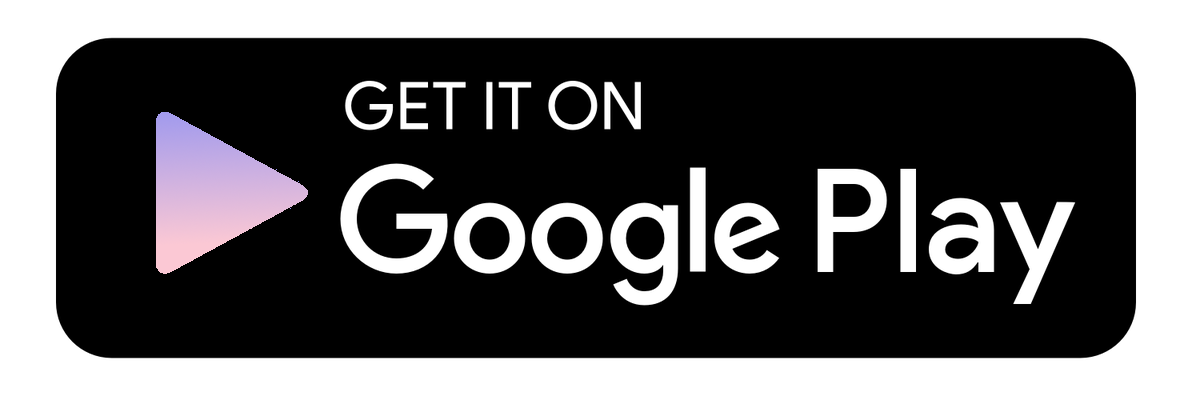
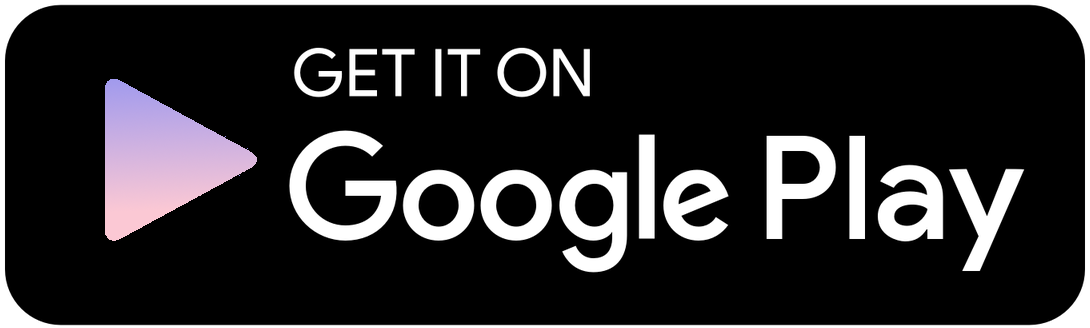
more progress on projects

diff --git a/index.html b/index.html
@@ -479,7 +479,7 @@
           <div class="col-6 col-lg-4 p-2">
             <a
               class="project-bubble popup-with-move-anim"
-              href="#this-website-lightbox"
+              href="#jack-benak-fund-lightbox"
             >
                 <img
                   class="project-picture"
@@ -487,7 +487,7 @@
                 />
               <div class="project-title">Jack Benak Fund</div>
               <div class="project-info-brief">
-                A tribute and memorial website to my best friend.
+                A tribute and memorial website for my best friend.
               </div>
             </a>
           </div>
@@ -535,22 +535,24 @@
           <h3>This Website</h3>
           <hr class="line-heading" />
           <h6>A personal portfolio</h6>
-          <p>I made this website using a few fun libraries and stylesheets:</p>
+          <p>I made this website using a few fun libraries, stylesheets, and tools</p>
           <ul class="lightbox-list">
             <li>GSAP-- ScrollTrigger, Timeline</li>
             <li>jQuery</li>
             <li>Bootstrap</li>
             <li>Magnific Popup</li>
+            <li>Photoshop</li>
+            <li>GIMP</li>
           </ul>
 
           <p>Feel free to use any code you find here! I drew inspiration from lots of online resources like codepen and stack overflow.</p>
 
             <a
-            class="col-sm-5 github-button-link d-flex justify-content-start"
+            class="col-10 col-sm-4 lighthouse-button-link d-flex justify-content-start"
             href="https://github.com/ahern55/ahern55.github.io"
             target="_blank">
               <img
-                class="github-button"
+                class="lighthouse-button"
                 src="resources/view-on-github.png"
                 alt="view on github"
               />
@@ -577,12 +579,36 @@
             src="resources/your-recipes-logo.png"
           />
 
+          <div class="app-store-buttons row justify-content-center">
+            <a
+            class="col-6 lighthouse-button-link d-flex justify-content-center p-1"
+            href="https://github.com/ahern55/recipes"
+            target="_blank">
+              <img
+                class="lighthouse-button"
+                src="resources/appleAppStore.png"
+                alt="Download on App Store"
+              />
+            </a>
+  
+            <a
+            class="col-6 lighthouse-button-link d-flex justify-content-center p-1"
+            href="https://github.com/ahern55/recipes"
+            target="_blank">
+              <img
+                class="lighthouse-button"
+                src="resources/androidAppStore.png"
+                alt="Get on Google Play"
+              />
+            </a>
+        </div>
+
         </div>
         <!-- end of col -->
         <div class="col-sm-8">
           <h3>Your Recipes</h3>
           <hr class="line-heading" />
-          <h6>A Mobile App</h6>
+          <h6>A Recipe Management Mobile App</h6>
           <p>I created this app as a minimum viable product of sorts. </p>
             
           <p>I used .NET with Xamarin.Forms to build the native apps for iOS and Android with one tooling.</p>
@@ -592,16 +618,17 @@
             I'd like to host some central database server. I'd probably write the API in node.js
           </p>
 
-            <a
-            class="col-sm-5 github-button-link d-flex justify-content-start"
+          <a
+            class="col-10 col-sm-4 lighthouse-button-link d-flex"
             href="https://github.com/ahern55/recipes"
             target="_blank">
               <img
-                class="github-button"
-                src="resources/view-on-github.png"
-                alt="view on github"
-              />
-            </a>
+              class="lighthouse-button"
+              src="resources/view-on-github.png"
+              alt="view on github"
+            />
+          </a>
+
           </div>
         </div>
       </div>
@@ -639,15 +666,62 @@
           </ul>
 
             <a
-            class="col-sm-5 github-button-link d-flex justify-content-start"
+            class="col-10 col-sm-4 lighthouse-button-link d-flex justify-content-start"
             href="https://github.com/ahern55/econ_data_project"
             target="_blank">
               <img
-                class="github-button"
+                class="lighthouse-button"
                 src="resources/view-on-github.png"
                 alt="view on github"
               />
             </a>
+          </div>
+        </div>
+      </div>
+    </div>
+
+    <!-- ******************************************************************* -->
+    <!-- *****************************Jack********************************** -->
+    <!-- ******************************************************************* -->
+    <div
+      id="jack-benak-fund-lightbox"
+      class="project-lightbox zoom-anim-dialog mfp-hide"
+    >
+      <div class="row">
+        <button title="Close (Esc)" type="button" class="mfp-close x-button">
+          ×
+        </button>
+        <div class="col-sm-4">
+          <img
+            class="project-lighthouse-picture"
+            src="resources/jack-benak-fund.jpg"
+          />
+
+        </div>
+        <!-- end of col -->
+        <div class="col-sm-8">
+          <h3>Jack Benak Fund</h3>
+          <hr class="line-heading" />
+          <h6><a class="colored-link" target="_blank" href="https://jackbenakfund.org">jackbenakfund.org</a></h6>
+          
+          <p>A tribute website.</p>
+
+          <p>Didn't really want to put this on here, but it did introduce me to web design.</p>
+          
+          <p>I used a template from Inovatik.</p>
+          
+          <p>If you're reading this, head over to the website and learn a bit about Jack!</p>
+          
+          <a
+            class="col-10 col-sm-4 lighthouse-button-link d-flex justify-content-start"
+            href="https://github.com/ahern55/jackbenakfund"
+            target="_blank">
+            <img
+              class="lighthouse-button"
+              src="resources/view-on-github.png"
+              alt="view on github"
+            />
+          </a>
           </div>
         </div>
       </div>

diff --git a/css/styles.css b/css/styles.css
@@ -784,20 +784,23 @@ footer .row div {
   margin-right: 2%;
 }
 
-.github-button {
+.lighthouse-button {
   width:100%;
   margin-bottom: 0;
   display: inline-block;
 }
 
-.github-button-link {
+.lighthouse-button-link {
   margin-right: 0;
-  width: 50%;
   padding: 0;
 }
 
-.github-button-link:hover {
+.lighthouse-button-link:hover {
   --dim: 90%;
   filter: brightness(var(--dim));
   -webkit-filter: brightness(var(--dim));
+}
+
+.app-store-buttons {
+  margin-bottom: 2rem;
 }
